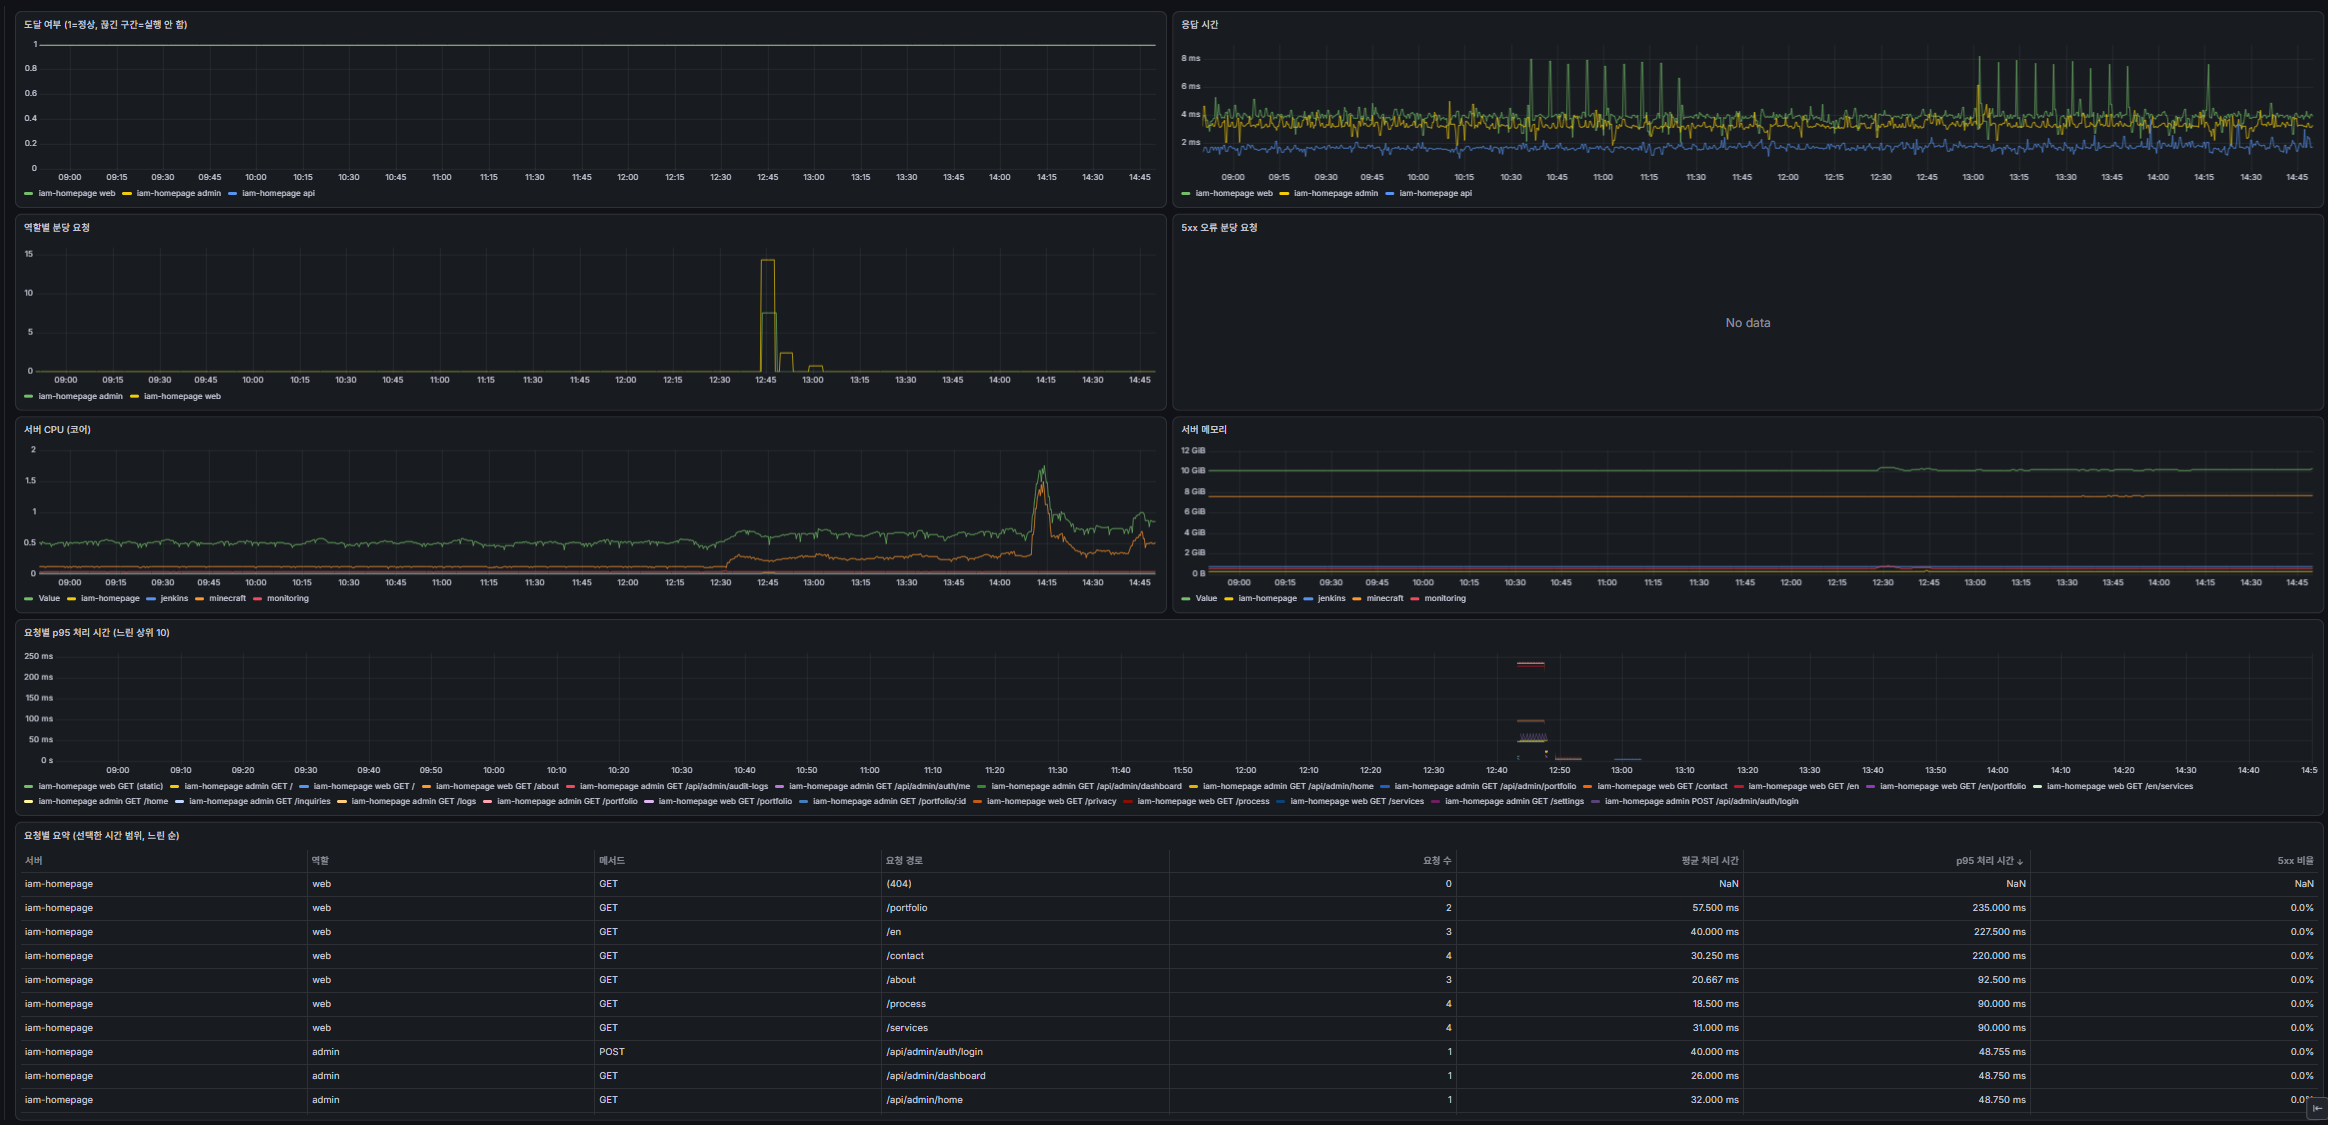
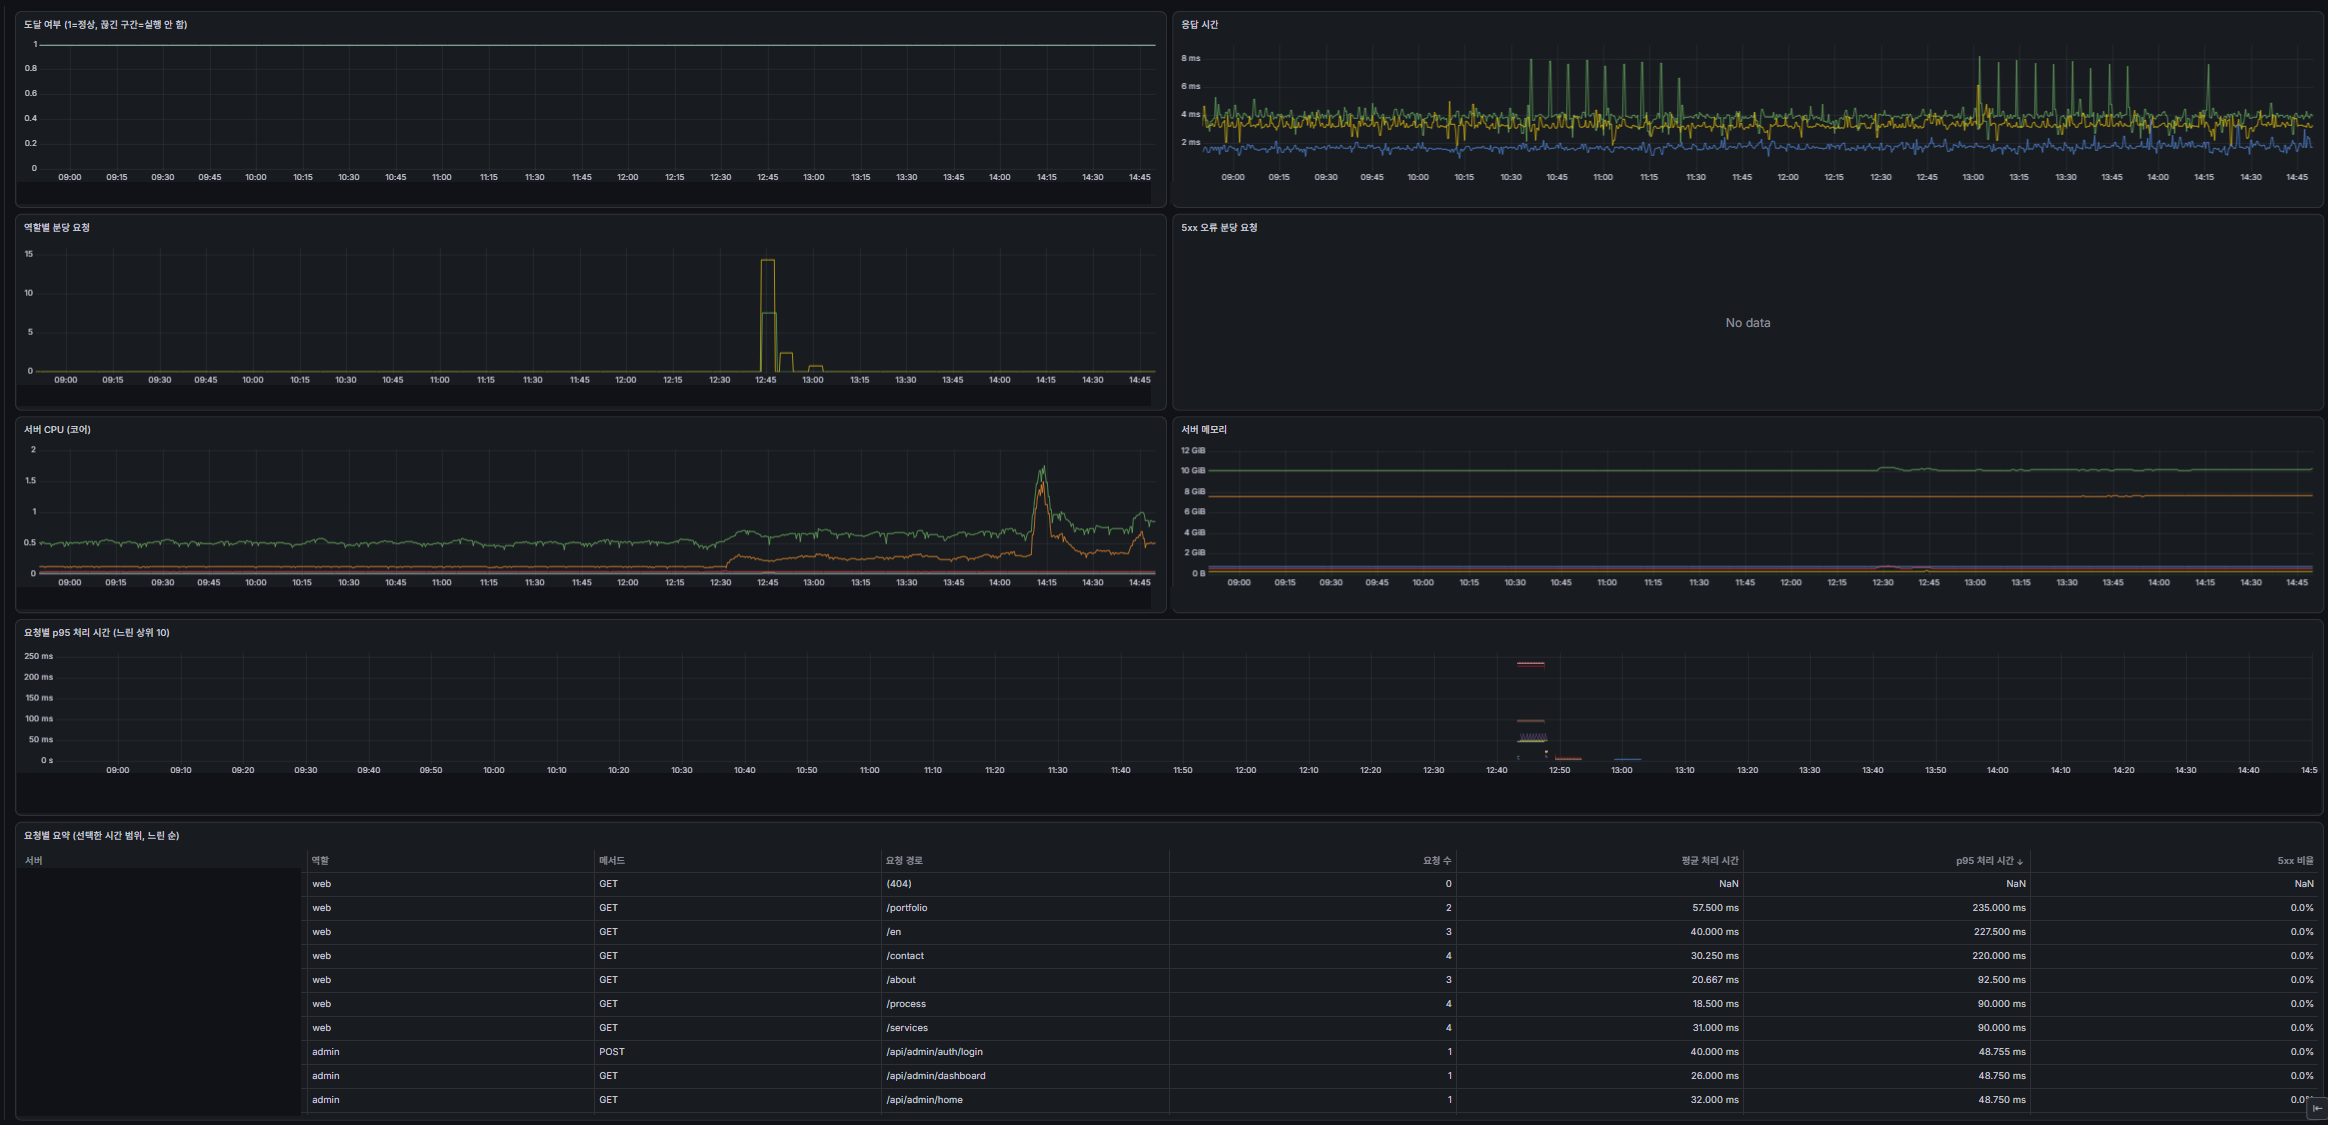
content: mask server names, refine server card copy, one-line process flow

diff --git a/app/globals.css b/app/globals.css
@@ -77,9 +77,13 @@ main { max-width: 1040px; margin: 0 auto; padding: 24px 16px 64px; }
 .skill-groups > li { padding: 16px 18px; display: flex; flex-direction: column; gap: 10px; }
 .skill-groups h3 { margin: 0; font-size: 0.95rem; font-weight: 800; color: var(--eyebrow); }
 .why-list { display: grid; grid-template-columns: repeat(auto-fit, minmax(min(240px, 100%), 1fr)); gap: 16px; }
-.why-list li { padding: 24px; }
+.why-list li { padding: 24px; container-type: inline-size; }
 .why-list h3 { margin: 0 0 8px; font-size: 1.1rem; }
 .why-list p { margin: 0; color: var(--muted); }
+/* 카드 폭에 맞춰 글씨를 줄여 한 줄 유지 (영어는 너무 길어 줄바꿈 허용) */
+.why-flow { white-space: nowrap; font-size: min(1em, 5cqi); }
+:lang(ja) .why-flow { font-size: min(1em, 4.4cqi); }
+:lang(en) .why-flow { white-space: normal; font-size: inherit; }
 
 section { padding-top: 80px; }
 h2 { margin: 0 0 32px; font-size: clamp(1.8rem, 3.5vw, 2.4rem); letter-spacing: -0.03em; font-weight: 800; }
@@ -115,11 +119,11 @@ h2 { margin: 0 0 32px; font-size: clamp(1.8rem, 3.5vw, 2.4rem); letter-spacing: 
 .card:hover .thumb img { transform: scale(1.06); }
 .card-body { padding: 20px 22px 24px; display: flex; flex-direction: column; gap: 10px; flex: 1; }
 .card-body h3 { margin: 0; font-size: 1.25rem; }
-.card-body p { margin: 0; color: var(--muted); }
+.card-body p { margin: 0; color: var(--muted); white-space: pre-line; }
 .project-points { display: grid; gap: 4px; color: var(--muted); }
 .project-points li { position: relative; padding-left: 16px; }
 .project-points li::before { content: ''; position: absolute; left: 2px; top: .7em; width: 5px; height: 5px; border-radius: 50%; background: var(--accent); }
-.project-impact { padding: 10px 12px; border-left: 3px solid var(--accent); border-radius: 6px;
+.project-impact { white-space: pre-line; padding: 10px 12px; border-left: 3px solid var(--accent); border-radius: 6px;
   background: color-mix(in srgb, var(--accent) 12%, transparent); color: var(--fg); }
 .card-body > .chips { margin-top: auto; }
 .arrow { display: inline-block; color: var(--accent); transition: transform .25s; }

diff --git a/app/Home.tsx b/app/Home.tsx
@@ -11,7 +11,7 @@ const builtAt = monthIndex(new Date());
 
 const skillGroups = [
   { id: 'lang', items: ['C++ (STL)', 'C#', 'Java', 'TypeScript', 'JavaScript', 'Python'] },
-  { id: 'frontend', items: ['React', 'Next.js', 'React Native (Expo)', 'Unreal Engine'] },
+  { id: 'frontend', items: ['React', 'Next.js', 'React Native', 'Unreal Engine'] },
   { id: 'backend', items: ['NestJS', 'Spring Boot', 'Boost.Asio', 'TypeORM', 'Protobuf', 'spdlog'] },
   { id: 'db', items: ['PostgreSQL', 'MSSQL', 'Supabase'] },
   { id: 'infra', items: ['Git', 'SVN', 'Docker', 'AWS', 'Vercel', 'Jenkins', 'GitHub Actions'] },
@@ -115,6 +115,7 @@ export default function Home({ lang }: { lang: Lang }) {
               {['troubleshooting', 'delivery', 'cross-domain'].map((item) => (
                 <li key={item} className="glass reveal">
                   <h3>{tr(`why.${item}.title`)}</h3>
+                  {item === 'delivery' && <p className="why-flow">{tr('why.delivery.flow')}</p>}
                   <p>{tr(`why.${item}.description`)}</p>
                 </li>
               ))}
